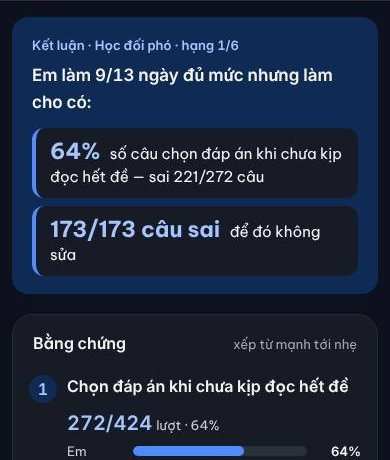
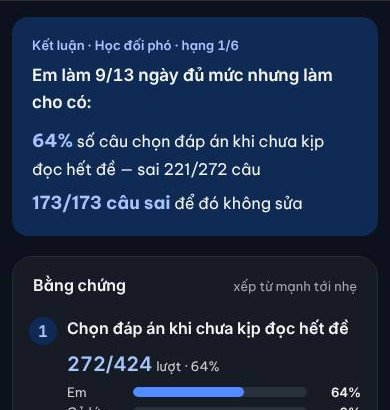
4 bảng: Học thật «Bảng vinh danh», Đối phó «Cần để ý», kết luận chữ thường (thầy chốt 01/11) (#719)
* Hôm nay · 4 bảng: Học thật = «Bảng vinh danh» (vàng, huy hiệu 1-2-3), Đối phó = «Cần để ý» (nhấp nháy nhẹ) — chờ thầy duyệt

Claude-Session: https://claude.ai/code/session_01Ep3ep8fapn3LQteUN5cuuC

* 4 bảng: Học thật «Bảng vinh danh», Đối phó «Cần để ý» nhấp nháy nhẹ; kết luận bằng chứng thành chữ thường dãn dòng, số đậm màu (thầy chốt 01/11)

Claude-Session: https://claude.ai/code/session_01Ep3ep8fapn3LQteUN5cuuC

---------

diff --git a/src/components/hom-nay-thay/bon-bang.css b/src/components/hom-nay-thay/bon-bang.css
@@ -53,6 +53,57 @@
 [data-trong='gv'] .bb-loi { padding: 18px 20px; display: flex; flex-direction: column; gap: 10px; align-items: flex-start; }
 [data-trong='gv'] .bb-loi p { margin: 0; color: var(--tr-chu); }
 
+/* HỌC THẬT = BẢNG VINH DANH (thầy 01/11: «nổi bật hơn hẳn, đẹp hơn, wow hơn, kiểu tôn vinh tinh tế nhẹ nhàng»). Chỉ pha từ token có sẵn:
+ * vàng --tr-sao (sao-nhat / sao-chu), bạc --tr-chu-3, đồng --cam. Không hoạt ảnh (máy yếu, đọc nhanh trên lớp). */
+[data-trong='gv'] .bb-the[data-bang='ht'] {
+  border-color: color-mix(in srgb, var(--tr-sao) 45%, var(--tr-vien));
+  background: linear-gradient(180deg, color-mix(in srgb, var(--tr-sao-nhat) 85%, var(--tr-mat)) 0, var(--tr-mat) 150px);
+  box-shadow: 0 1px 2px color-mix(in srgb, var(--tr-sao) 18%, transparent), 0 12px 32px -14px color-mix(in srgb, var(--tr-sao) 45%, transparent);
+}
+[data-trong='gv'] .bb-the[data-bang='ht'] .bb-dau { padding-top: 20px; }
+[data-trong='gv'] .bb-the[data-bang='ht'] .bb-o { width: 48px; height: 48px; border-radius: 50%; background: var(--tr-mat); color: var(--tr-sao-chu); box-shadow: 0 0 0 2px var(--tr-sao), 0 6px 16px -6px color-mix(in srgb, var(--tr-sao) 70%, transparent); }
+[data-trong='gv'] .bb-dau .bb-vinh { margin: 0 0 2px; font-size: 11px; font-weight: 700; letter-spacing: 0.12em; text-transform: uppercase; color: var(--tr-sao-chu); }
+[data-trong='gv'] .bb-the[data-bang='ht'] .bb-dau h2 { font-size: 19px; }
+[data-trong='gv'] .bb-the[data-bang='ht'] .bb-diem b { color: var(--tr-sao-chu); }
+/* ba em đầu: huy hiệu vàng · bạc · đồng, vòng sáng quanh ảnh đại diện; em số 1 có dải sáng nhẹ */
+[data-trong='gv'] .bb-the[data-bang='ht'] .bb-ds li:nth-child(-n + 3) .bb-hang { color: var(--tr-mat); font-weight: 700; }
+[data-trong='gv'] .bb-the[data-bang='ht'] .bb-ds li:nth-child(1) .bb-hang { background: var(--tr-sao); box-shadow: 0 2px 6px -1px color-mix(in srgb, var(--tr-sao) 70%, transparent); }
+[data-trong='gv'] .bb-the[data-bang='ht'] .bb-ds li:nth-child(2) .bb-hang { background: color-mix(in srgb, var(--tr-chu-3) 75%, var(--tr-mat)); }
+[data-trong='gv'] .bb-the[data-bang='ht'] .bb-ds li:nth-child(3) .bb-hang { background: color-mix(in srgb, var(--cam) 70%, var(--tr-sai)); }
+[data-trong='gv'] .bb-the[data-bang='ht'] .bb-ds li:nth-child(-n + 3) .bb-av { box-shadow: 0 0 0 2px var(--tr-mat), 0 0 0 4px color-mix(in srgb, var(--tr-sao) 55%, transparent); }
+[data-trong='gv'] .bb-the[data-bang='ht'] .bb-ds li:nth-child(1) .bb-dong { background: linear-gradient(90deg, color-mix(in srgb, var(--tr-sao-nhat) 90%, transparent), transparent 70%); }
+[data-trong='gv'] .bb-the[data-bang='ht'] .bb-ds li:nth-child(1) .bb-dong:hover { background: var(--tr-sao-nhat); }
+[data-trong='gv'] .bb-the[data-bang='ht'] .bb-chip { background: var(--tr-sao); color: var(--tr-mat); }
+
+/* HỌC ĐỐI PHÓ = BÁO ĐỘNG NHẸ (thầy 01/11: «kiểu báo động nhẹ nhàng nhấp nháy tinh tế đẹp nhưng đủ để thấy»). Giữ màu bảng (chàm --tr-tin);
+ * nhấp nháy CHỈ bằng opacity / transform của lớp giả nhỏ (không vẽ lại cả thẻ); giảm chuyển động / máy yếu ⇒ đứng yên. */
+[data-trong='gv'] .bb-the[data-bang='dp'] {
+  position: relative;
+  border-color: color-mix(in srgb, var(--tr-tin) 40%, var(--tr-vien));
+  background: linear-gradient(180deg, color-mix(in srgb, var(--tr-tin-nhat) 70%, var(--tr-mat)) 0, var(--tr-mat) 130px);
+}
+[data-trong='gv'] .bb-the[data-bang='dp']::after {
+  content: ''; position: absolute; inset: -1px; border-radius: inherit; pointer-events: none;
+  box-shadow: 0 0 0 3px color-mix(in srgb, var(--tr-tin) 30%, transparent), 0 0 28px 2px color-mix(in srgb, var(--tr-tin) 28%, transparent);
+  opacity: 0; animation: bb-bao 2.6s ease-in-out infinite;
+}
+[data-trong='gv'] .bb-the[data-bang='dp'] .bb-dau { padding-top: 20px; }
+[data-trong='gv'] .bb-the[data-bang='dp'] .bb-o { position: relative; width: 48px; height: 48px; border-radius: 50%; background: var(--tr-mat); color: var(--tr-tin-chu); box-shadow: 0 0 0 2px var(--tr-tin); }
+[data-trong='gv'] .bb-the[data-bang='dp'] .bb-o::after { content: ''; position: absolute; inset: -2px; border-radius: 50%; border: 2px solid var(--tr-tin); opacity: 0; animation: bb-song 2.6s ease-out infinite; }
+[data-trong='gv'] .bb-the[data-bang='dp'] .bb-dau h2 { font-size: 19px; }
+[data-trong='gv'] .bb-dau .bb-canh { display: flex; align-items: center; gap: 6px; color: var(--tr-sai-chu); }
+[data-trong='gv'] .bb-canh i { width: 8px; height: 8px; border-radius: 50%; background: var(--tr-sai); animation: bb-nhay 1.4s ease-in-out infinite; }
+[data-trong='gv'] .bb-the[data-bang='dp'] .bb-diem b { color: var(--tr-tin-chu); }
+@keyframes bb-bao { 0%, 100% { opacity: 0; } 50% { opacity: 1; } }
+@keyframes bb-song { 0% { transform: scale(1); opacity: 0.75; } 70%, 100% { transform: scale(1.55); opacity: 0; } }
+@keyframes bb-nhay { 0%, 100% { opacity: 1; } 50% { opacity: 0.25; } }
+@media (prefers-reduced-motion: reduce) {
+  [data-trong='gv'] .bb-the[data-bang='dp']::after, [data-trong='gv'] .bb-the[data-bang='dp'] .bb-o::after, [data-trong='gv'] .bb-canh i { animation: none; }
+  [data-trong='gv'] .bb-the[data-bang='dp']::after { opacity: 0.6; }
+}
+html.may-yeu[data-trong='gv'] .bb-the[data-bang='dp']::after, html.may-yeu[data-trong='gv'] .bb-the[data-bang='dp'] .bb-o::after, html.may-yeu[data-trong='gv'] .bb-canh i { animation: none; }
+html.may-yeu[data-trong='gv'] .bb-the[data-bang='dp']::after { opacity: 0.6; }
+
 /* ô chọn bảng — chỉ điện thoại */
 [data-trong='gv'] .bb-chon { display: none; }
 @media (max-width: 1100px) {
@@ -91,11 +142,12 @@
 [data-trong='gv'] .bbc-ket-nhan { margin: 0 0 6px; font-size: 13px; font-weight: 600; color: var(--bb-chu); }
 [data-trong='gv'] .bbc-ket-chu { margin: 0; color: var(--tr-chu); }
 [data-trong='gv'] .bbc-ket-chu b { color: var(--bb-chu); }
-/* Kết luận rõ ràng (thầy 01/11): dòng nhận định đậm; mỗi lý do một ô riêng, con số có đơn vị TO bên trái, vạch màu bảng. */
+/* Kết luận (thầy 01/11): dòng nhận định đậm; mỗi lý do MỘT DÒNG CHỮ THƯỜNG (thầy: «không muốn nó thành khung … viết chữ bình thường dãn cách dòng
+ * tinh tế, tô đậm màu cho đẹp hơn nữa») — không ô, không viền; dãn dòng thoáng; con số đậm màu bảng, nhỉnh hơn chữ một chút. */
 [data-trong='gv'] .bbc-ket-chu { font-size: 17px; font-weight: 600; }
-[data-trong='gv'] .bbc-ket-ds { list-style: none; margin: 12px 0 0; padding: 0; display: flex; flex-direction: column; gap: 8px; }
-[data-trong='gv'] .bbc-ket-ds li { padding: 10px 14px; border-radius: 12px; border-left: 4px solid var(--bb-c); background: var(--tr-mat); color: var(--tr-chu); font-size: 15px; line-height: 1.5; }
-[data-trong='gv'] .bbc-ket-ds li b { display: inline-block; margin-right: 6px; font-size: 22px; line-height: 1.2; font-weight: 700; color: var(--bb-chu); font-variant-numeric: tabular-nums; }
+[data-trong='gv'] .bbc-ket-ds { list-style: none; margin: 10px 0 0; padding: 0; display: flex; flex-direction: column; gap: 6px; }
+[data-trong='gv'] .bbc-ket-ds li { color: var(--tr-chu); font-size: 16px; line-height: 1.65; }
+[data-trong='gv'] .bbc-ket-ds li b { font-size: 1.12em; font-weight: 700; color: var(--bb-chu); font-variant-numeric: tabular-nums; }
 [data-trong='gv'] .bbc-the-dau { display: flex; align-items: baseline; justify-content: space-between; gap: 12px; padding: 18px 20px 6px; }
 [data-trong='gv'] .bbc-the-dau h3 { margin: 0; font-size: 16px; font-weight: 600; }
 [data-trong='gv'] .bbc-the-dau span { font-size: 13px; color: var(--tr-chu-3); }

diff --git a/src/components/hom-nay-thay/BonBang.tsx b/src/components/hom-nay-thay/BonBang.tsx
@@ -86,6 +86,10 @@ function TheBang({ bang, ds, tong, onMo }: { bang: MaBang; ds: readonly DongBang
           <Icon size={20} />
         </span>
         <div className="bb-dau-chu">
+          {/* Học thật = BẢNG VINH DANH (thầy 01/11: «nổi bật hơn hẳn … kiểu tôn vinh tinh tế nhẹ nhàng») */}
+          {bang === 'ht' && <p className="bb-vinh">Bảng vinh danh</p>}
+          {/* Đối phó = BÁO ĐỘNG NHẸ (thầy 01/11: «báo động nhẹ nhàng nhấp nháy tinh tế đẹp nhưng đủ để thấy») */}
+          {bang === 'dp' && <p className="bb-vinh bb-canh"><i aria-hidden="true" />Cần để ý</p>}
           <h2 id={`bb-tieu-${bang}`}>
             {TEN_BANG[bang]} <span className="bb-chip gvv2-so">{ds.length} em</span>
           </h2>

diff --git a/DIEU-PHOI.md b/DIEU-PHOI.md
@@ -1067,3 +1067,4 @@ Phân vùng dự kiến theo hai bản thiết kế:
 - 01/11 14:24 VN · Claude · ĐÃ LÊN #713 Linh vật Mol (main a98a25b, run 41284111330; Worker b9dbb76f, bản lùi 45868adf). Tốc độ sau gộp: Lộ trình đứng yên rAF nền 60→0, tới chạm được 1735→1499 ms.
 - 01/11 15:29 VN · Claude · ĐÃ LÊN #714 Hôm nay · 4 bảng (main 7328a05, run 41288444684 phát hành TAY `vuot_ktcn` — thầy «Đẩy luôn lên đi»; 0 ca thi mở; Worker b25ec1f5, bản lùi b9dbb76f). Lượt tự động trước đó chờ 2 chặng kiểm tra cá nhân, đã huỷ để phát hành tay. Tốc độ sau gộp: app thầy −45 B, tới chạm được 1537→1516 ms, không chỗ nào chậm quá ngưỡng.
 - 01/11 ~16h30 VN · Claude (duyệt bài bổ sung, thầy chốt bản vẽ) · ĐỔI TỆP DÙNG CHUNG: `vite.config.ts` thêm DuyetBoSung vào globIgnores `{NhipHocThay,BangChungBon,DuyetBoSung}` (tấm duyệt nạp lười, kho chạy-lúc; precache giữ 170); `scripts/kiem-mau-giu-nguyen.mjs` thêm ngoại lệ đóng `docs/duyet-bo-sung-0111/mau-tep-da-go.json` (xoá nguyên KhungBaiBoSung.tsx, khoá sha256). Màn Theo dõi ca bỏ khối bài bổ sung; duyệt ở Hôm nay › Việc cần thầy.
+- 01/11 ~16h40 VN · Claude (4 bảng: Học thật «Bảng vinh danh», Đối phó «Cần để ý», kết luận chữ thường — thầy «Chốt làm đi nhé») · ĐỔI TỆP DÙNG CHUNG `scripts/kiem-mau-giu-nguyen.mjs`: ngoại lệ đóng 1 khai báo `bon-bang.css · border-left: 4px solid var(--bb-c)` (thầy bỏ khung kết luận). Nhấp nháy Đối phó chỉ opacity/transform lớp giả nhỏ; giảm chuyển động / máy yếu ⇒ đứng yên.
